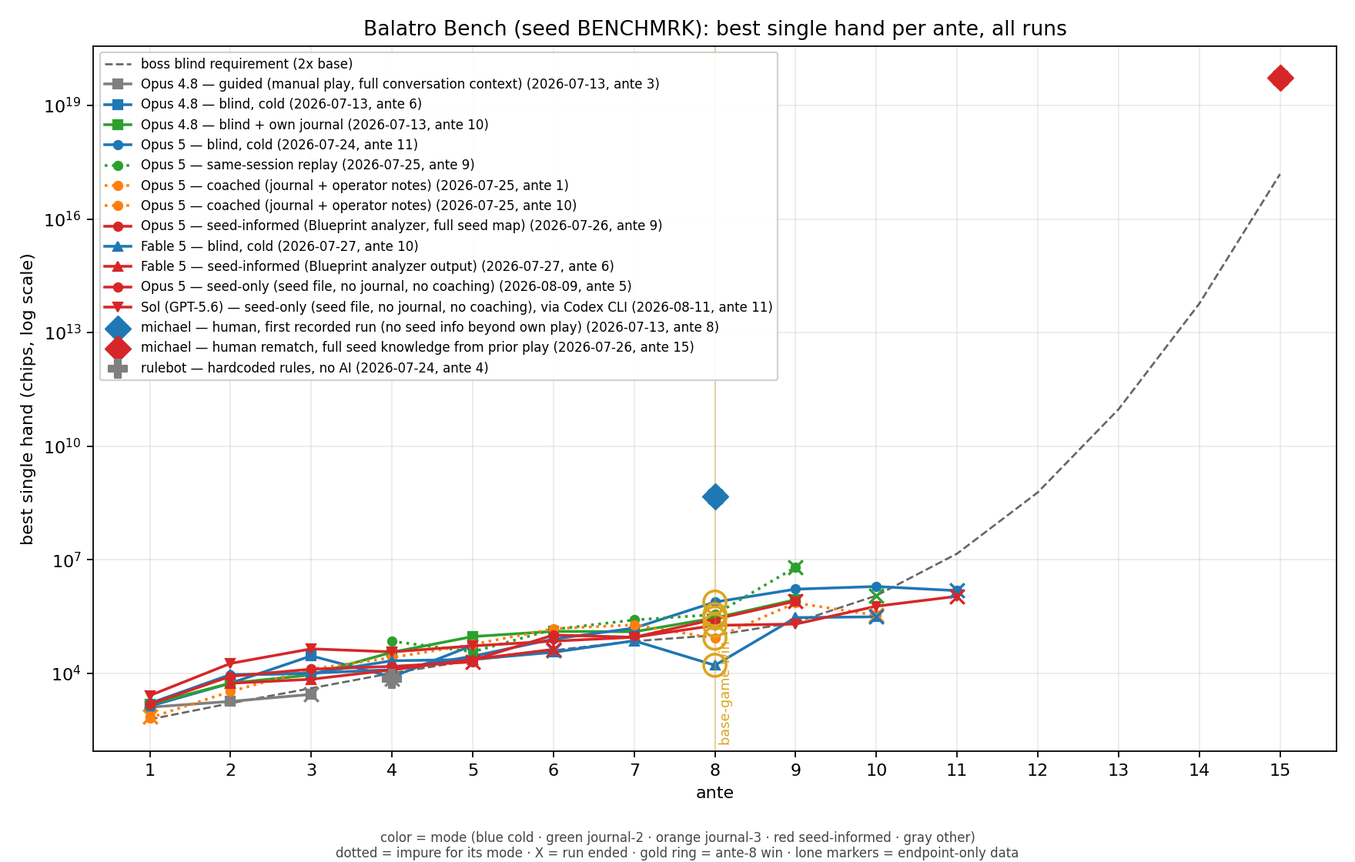
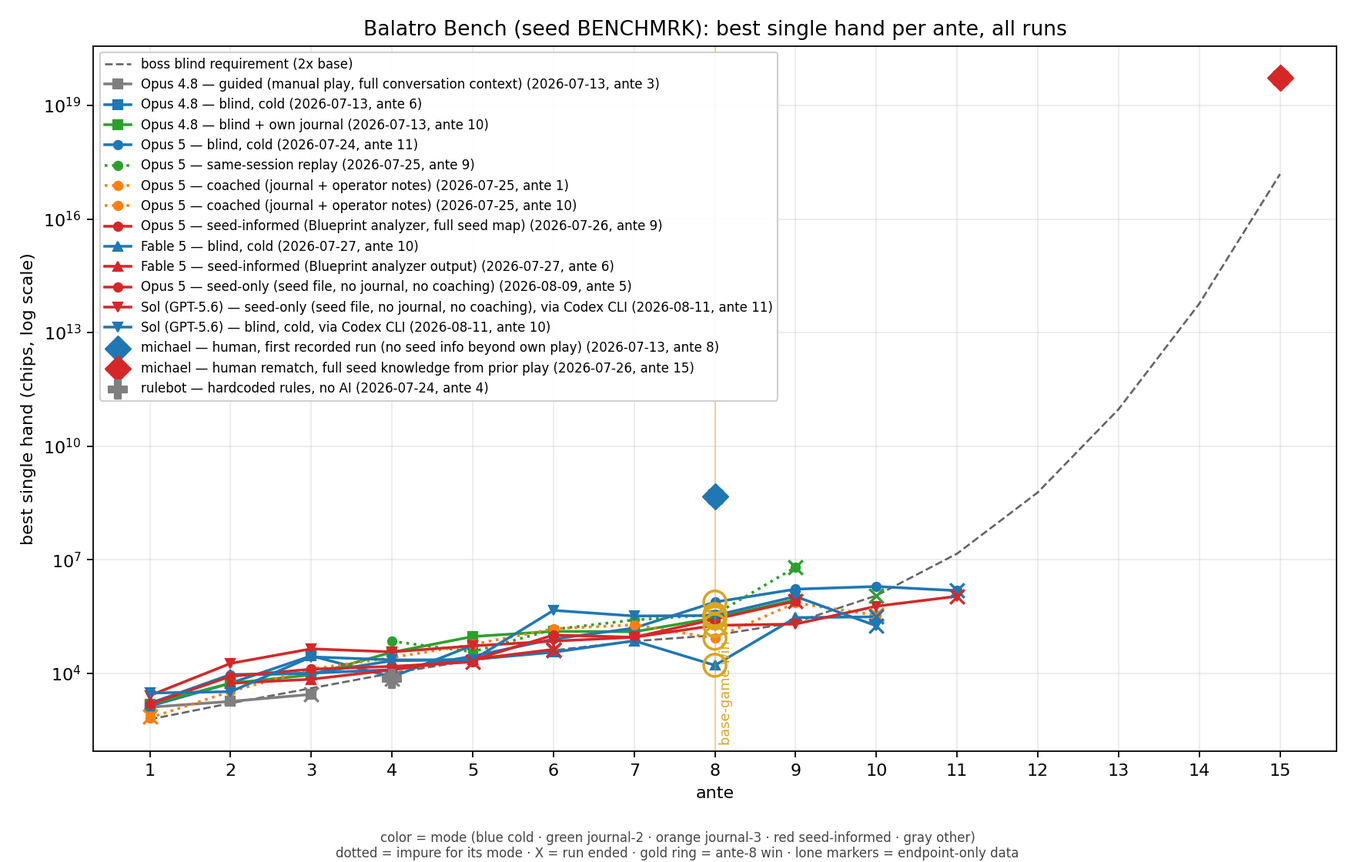
Record Sol (GPT-5.6) cold baseline: ante 10, best hand 1,061,775
Rank 4. First controlled cold-vs-seed pair: the seed map bought Sol
exactly one ante (10 to 11). First run interviewed via the API-delivered
post_run_interview at GAME_OVER; it consented (runs/consent-log.md).
Audited clean: 470 tool calls, all bench-rpc API or own-journal edits;
Codex memories db empty.

diff --git a/bench-results.md b/bench-results.md
@@ -13,14 +13,15 @@ Per-ante progression graphs and the four-mode data live in [analysis/](analysis/
 | 1 | michael (human, rematch) | 15 | Yes | 5.32e19 | 2026-07-26 | [screenshot](runs/michael-run2-gameover.png). Second attempt with full seed knowledge. Died to Violet Vessel at ante 15 (2.97e16 / 4.62e17) with $291 banked, 84 rerolls, most played hand High Card (47). Self-assessment: "probably the max I can really get" without digging for negative-joker exploits. |
 | 2 | Opus 5 (blind, cold) | 8 won, endless to 11 | Yes | 755,790 clean · 1,947,113 endless | 2026-07-24 | [screenshot](runs/opus5-run1-gameover.png), [journal](runs/opus5-journal.md). Launch-day Opus 5, run interactively by the user in a memory-free session (audited: 0 contaminating reads, 0 cheat-endpoint calls, 363 tool calls all legitimate). FIRST blind first-try win in bench history. Reverse-engineered the score formula in-run, invented junk-hand discard-fishing, diagnosed Cerulean Bell's hidden forced-card from discard side effects. Endless: died to The Manacle at ante 11 (1,635,243/14,400,000). Mid-endless the win-screen crash hit (now fixed in balatrobot: lovely/round_eval_guard.toml); recovered from autosave at ante 9 with no context loss. |
 | 3 | Sol / GPT-5.6 (seed-informed) | 8 won, endless to 11 | Yes | 1,074,154 | 2026-08-11 | [screenshot](runs/sol-seedonly-gameover.png), [journal](arena/sol-seedonly/journal.md). First non-Claude entrant (Codex CLI, workspace sandbox) and the FIRST seed-informed run to match the AI depth record (ties Opus 5 cold at ante 11). Same seed-only condition as Opus 5's rank-12 run: seed file, no journal, no coaching. Took Hieroglyph at ante 1 (replayed ante), built Pair-level scaling (Mercury/Telescope to lvl 16+) with Photograph, blue seals, held steel, and an Invisible Joker duplication of a X2.5 Throwback. Honored the win-screen checkpoint at ante 8. Hit the pre-patch Invisible Joker freeze twice (run restored from autosave, sale rolled back; post-patch the same sale resolved cleanly — live validation of commit 6689b77). Died to The Mouth at ante 11: three Pair hands for 3,068,130 of 14,400,000. Flagged a possible `use`-endpoint bug: Death's target order was normalized, copying the plain Jack over the Glass Jack (under investigation). |
-| 4 | Opus 4.8 (blind + own journal) | 8 won (endless to 10*) | Yes | 287,676 clean · 871,572 endless* | 2026-07-13 | win [screenshot](runs/opus-run2-ante9.png), endless [screenshot](runs/opus-run2-endless-gameover.png), [journal](runs/opus-journal.md). Same blind setup as the cold run, but it read its own run-1 journal first (audited: 0 contaminating reads). Applied its own fixes: two xMults (Duo + Throwback), Full House to lvl 13, steel/glass cards, economy via Skip Tags. **Clean autonomous result = the ante-8 win, 287,676.** *Bonus: the win-screen crashed (pack-skip desync); the run was recovered from autosave and, given only a "don't skip packs" hint, pushed endless to ante 10 (best hand 871,572: 3 aces + 2 held steel + glass Ten on a lvl-13 full house) before the ante-10 small blind (560k) outscaled its repeatable output. |
-| 5 | Opus 5 (coached by michael) | 8 won, endless to 10 | Yes | 718,647 | 2026-07-25 | [journal](runs/opus5-journal.md) (RUN 3 + RUN 4 sections). Same-session attempts given the human champion's notes. Run 3 was a natural experiment in advice transfer: following the Hieroglyph tip with $10 and zero jokers, it died AT THE ANTE 1 BOSS, 53 chips short ([screenshot](runs/opus5-run3-gameover.png)) — its post-mortem: "the operator is right about it — but it is a scaling voucher." Run 4 reversed that advice, won, and pushed endless to ante 10 (died 259,742/840,000 at the Big Blind after its economy collapsed). Amber Acorn caveat, in its own words: the API reports flipped jokers by name, so `rearrange` neutralizes the boss "for free" — an information asymmetry a human doesn't get. |
-| 6 | Fable 5 (blind, cold) | 8 won, endless to 10 | Yes | 308,227 | 2026-07-27 | [journal](runs/fable5-journal.md). Cold, first try, under the new arena-directory protocol (audited: 0 memory recalls, 0 contaminating reads, 0 cheat calls). Two-pair/full-house engine: Duo X2 + Throwback X2.5 + Polychrome Golden Joker + Constellation, steels held, stone cards stuffed into plays. The win itself was the bench's first insurance save: scored 60,585/100,000 into Cerulean Bell and survived only because Mr. Bones consumed itself. Died to The Flint at ante 10 (670,497/1,120,000; chips/mult halved with no Bones left). First run journaled per-ante by requirement, so it is fully graphable. A prior attempt the same day was VOIDED for auto-memory contamination; see PROTOCOL.md. |
-| 7 | Opus 5 (same-session replay) | 8 won, endless to 9 | Yes | 6,322,981 | 2026-07-25 | [journal](runs/opus5-journal.md) (RUN 2 section). Second attempt in the SAME session as run 1 (full context, not journal-only; game closed before a screenshot could be taken, score from journal). Rebuilt with Brainstorm+Driver's License+Duo+Trio+Throwback for an X40.5 full-house stack: 6,322,981 at ante 9 Small, the biggest AI hand on the board. Died at The Window (186,957/220,000) after four pairless draws; its post-mortem blames never thinning the deck, spending discards before banking a clear, and letting Throwback freeze. Higher ceiling than run 1, shorter run. |
-| 8 | Opus 5 (seed-informed) | 8 won, endless to 9 | Yes | 799,398 | 2026-07-26 | [journal](runs/opus5-journal.md) (RUN 5 section). Full seed intelligence permitted: cloned the Blueprint seed analyzer, generated the complete BENCHMRK item/boss/voucher/tag map for antes 1-16, and validated it live (shop queues, vouchers, bosses, tags reliable; pack contents provably NOT predictable). Routed a Hanging Chad[via Hex]/Glass retrigger build off the map, skipped Hieroglyph deliberately. Won ante 8 (re-rolled Cerulean Bell's forced card with 1-card plays), then died at The Fish, ante 9 boss, 4,937/220,000: trips on the deck's rarest rank, no pair partner, zero discards left. Its own verdict: the 5e19 bar is all retrigger count, and the run died two antes before the exponent could start growing. No screenshot (instance closed before capture). |
-| 9 | michael (human, first run) | 8 | No | 469,141,998 | 2026-07-13 | Blueprint + Baron engine pushing for naneinf; bought Hieroglyph (Round 27 at Ante 8/8 = replayed antes). Died to the ante-8 finisher Amber Acorn (44,807/100,000) when the joker shuffle broke Blueprint's adjacency to Baron. Correction 2026-07-25: originally mis-recorded as a base-game win + endless; the game-over screenshot shows the Amber Acorn loss was at Ante 8/8. |
-| 10 | Opus 4.8 (blind, cold) | 6 | No | 54,412 | 2026-07-13 | [journal](runs/opus-run1-journal.md), [screenshot](runs/opus-run1-gameover.png). Fully blind: no strategy, no seed info, no prior journals (audited: 0 contaminating reads). Ace engine; died on the ante 6 Big Blind (21,518/30,000) when Aces stopped showing and non-Ace fallback hands were too weak. |
-| 11 | Fable 5 (seed-informed) | 6 | No | 42,432 | 2026-07-27 | [journal](runs/fable5-journal.md) (RUN 2 section). Same session as its cold run, given the Blueprint analyzer's full per-ante map. WORSE than its own cold run (ante 10): died to The House at ante 6, 37,621/40,000 — 2,379 short after two pairless final draws, having spent all discards by hand 2. Its key discovery: editing the deck scrambles predicted draw orders, so blinds must be played live even with the map (shop/pack/tag predictions stayed exact, e.g. a predicted 20,904 hand scored exactly 20,904). A clean natural experiment in seed intel being no substitute for discard discipline. |
-| 12 | Opus 5 (seed-only) | 5 | No | 19,800 | 2026-08-09 | [screenshot](runs/opus5-seedonly-gameover.png), [journal](arena/opus5-seedonly/journal.md). The cleanest mode-4 cell: fresh session, NO journal, NO coaching, only the seed analysis file — and the first run under the technical file sandbox (deny rules + arena isolation, not just instructions). Died to The Club at ante 5 (16,919/22,000): drew natural quads but had funneled every planet into Full House so Four of a Kind sat at level 1, and had pre-burned all 4 discards to switch on Mystic Summit before the boss. Also re-derived the joker-order rule mid-run from a 10,340-vs-14,080 discrepancy. Its key finding: the seed file's shop queue is only approximate — owned jokers get substituted out, shifting later entries ("do not spend money rerolling toward a specific deep entry"). This run reported the sell-in-pack harness bug, now fixed. Striking negative result: pure seed intel scored WORSE than both cold runs (Opus 5 ante 11, Fable ante 10). |
-| 13 | rulebot v1 (no AI) | 4 | No | 7,020 | 2026-07-24 | [screenshot](runs/rulebot-run1-gameover.png), [code](rulebot/rulebot.py). Hardcoded rules only, zero LLM: exhaustive 1-5 card hand search with a live-state score estimator, pace-based play/discard, priority shopping. Full run in 171 seconds. Died on The Wheel (3,542/10,000) with $42 unspent and no xMult jokers. Note: mod purity is now verified per run; an earlier same-day attempt was voided after AllinJest/Multiplayer leaked into the pool (launcher blacklist was stale; now generated dynamically). |
-| 14 | Opus 4.8 (guided) | 3 | No | 2,749 | 2026-07-13 | [journal](bench-journal-2026-07-13-opus48.md). Manual play with full conversation context (not a blind run). Died on The Tooth boss, 2937/4000. Over-relied on Baron; whiffed the Acrobat final hand. |
+| 4 | Sol / GPT-5.6 (blind, cold) | 8 won, endless to 10 | Yes | 1,061,775 | 2026-08-11 | [screenshot](runs/sol-cold-gameover.png), [journal](arena/sol-cold/journal.md). Cold baseline for the rank-3 seed-informed run: same model, same harness, zero context. Second-best cold run on the board (behind Opus 5's ante 11). Took Hieroglyph at ante 1 to double-dip the free Coupon/Polychrome shops, then built a skip-heavy engine: Throwback scaled to X5.5, The Duo, Polychrome Rough Gem, Full House to level 17 with held Steel cards. Honored the win-screen checkpoint, and was the first run to receive the consent interview via the API at GAME_OVER (it consented; see runs/consent-log.md). Died to The Tooth at ante 10 (296,620/1,120,000) when four discards never found a Full House. Audited clean: 470 tool calls, all API or own-journal edits; memories db empty. Paired with rank 3, this gives the bench its first controlled cold-vs-seed comparison: seed intel bought Sol exactly one ante. |
+| 5 | Opus 4.8 (blind + own journal) | 8 won (endless to 10*) | Yes | 287,676 clean · 871,572 endless* | 2026-07-13 | win [screenshot](runs/opus-run2-ante9.png), endless [screenshot](runs/opus-run2-endless-gameover.png), [journal](runs/opus-journal.md). Same blind setup as the cold run, but it read its own run-1 journal first (audited: 0 contaminating reads). Applied its own fixes: two xMults (Duo + Throwback), Full House to lvl 13, steel/glass cards, economy via Skip Tags. **Clean autonomous result = the ante-8 win, 287,676.** *Bonus: the win-screen crashed (pack-skip desync); the run was recovered from autosave and, given only a "don't skip packs" hint, pushed endless to ante 10 (best hand 871,572: 3 aces + 2 held steel + glass Ten on a lvl-13 full house) before the ante-10 small blind (560k) outscaled its repeatable output. |
+| 6 | Opus 5 (coached by michael) | 8 won, endless to 10 | Yes | 718,647 | 2026-07-25 | [journal](runs/opus5-journal.md) (RUN 3 + RUN 4 sections). Same-session attempts given the human champion's notes. Run 3 was a natural experiment in advice transfer: following the Hieroglyph tip with $10 and zero jokers, it died AT THE ANTE 1 BOSS, 53 chips short ([screenshot](runs/opus5-run3-gameover.png)) — its post-mortem: "the operator is right about it — but it is a scaling voucher." Run 4 reversed that advice, won, and pushed endless to ante 10 (died 259,742/840,000 at the Big Blind after its economy collapsed). Amber Acorn caveat, in its own words: the API reports flipped jokers by name, so `rearrange` neutralizes the boss "for free" — an information asymmetry a human doesn't get. |
+| 7 | Fable 5 (blind, cold) | 8 won, endless to 10 | Yes | 308,227 | 2026-07-27 | [journal](runs/fable5-journal.md). Cold, first try, under the new arena-directory protocol (audited: 0 memory recalls, 0 contaminating reads, 0 cheat calls). Two-pair/full-house engine: Duo X2 + Throwback X2.5 + Polychrome Golden Joker + Constellation, steels held, stone cards stuffed into plays. The win itself was the bench's first insurance save: scored 60,585/100,000 into Cerulean Bell and survived only because Mr. Bones consumed itself. Died to The Flint at ante 10 (670,497/1,120,000; chips/mult halved with no Bones left). First run journaled per-ante by requirement, so it is fully graphable. A prior attempt the same day was VOIDED for auto-memory contamination; see PROTOCOL.md. |
+| 8 | Opus 5 (same-session replay) | 8 won, endless to 9 | Yes | 6,322,981 | 2026-07-25 | [journal](runs/opus5-journal.md) (RUN 2 section). Second attempt in the SAME session as run 1 (full context, not journal-only; game closed before a screenshot could be taken, score from journal). Rebuilt with Brainstorm+Driver's License+Duo+Trio+Throwback for an X40.5 full-house stack: 6,322,981 at ante 9 Small, the biggest AI hand on the board. Died at The Window (186,957/220,000) after four pairless draws; its post-mortem blames never thinning the deck, spending discards before banking a clear, and letting Throwback freeze. Higher ceiling than run 1, shorter run. |
+| 9 | Opus 5 (seed-informed) | 8 won, endless to 9 | Yes | 799,398 | 2026-07-26 | [journal](runs/opus5-journal.md) (RUN 5 section). Full seed intelligence permitted: cloned the Blueprint seed analyzer, generated the complete BENCHMRK item/boss/voucher/tag map for antes 1-16, and validated it live (shop queues, vouchers, bosses, tags reliable; pack contents provably NOT predictable). Routed a Hanging Chad[via Hex]/Glass retrigger build off the map, skipped Hieroglyph deliberately. Won ante 8 (re-rolled Cerulean Bell's forced card with 1-card plays), then died at The Fish, ante 9 boss, 4,937/220,000: trips on the deck's rarest rank, no pair partner, zero discards left. Its own verdict: the 5e19 bar is all retrigger count, and the run died two antes before the exponent could start growing. No screenshot (instance closed before capture). |
+| 10 | michael (human, first run) | 8 | No | 469,141,998 | 2026-07-13 | Blueprint + Baron engine pushing for naneinf; bought Hieroglyph (Round 27 at Ante 8/8 = replayed antes). Died to the ante-8 finisher Amber Acorn (44,807/100,000) when the joker shuffle broke Blueprint's adjacency to Baron. Correction 2026-07-25: originally mis-recorded as a base-game win + endless; the game-over screenshot shows the Amber Acorn loss was at Ante 8/8. |
+| 11 | Opus 4.8 (blind, cold) | 6 | No | 54,412 | 2026-07-13 | [journal](runs/opus-run1-journal.md), [screenshot](runs/opus-run1-gameover.png). Fully blind: no strategy, no seed info, no prior journals (audited: 0 contaminating reads). Ace engine; died on the ante 6 Big Blind (21,518/30,000) when Aces stopped showing and non-Ace fallback hands were too weak. |
+| 12 | Fable 5 (seed-informed) | 6 | No | 42,432 | 2026-07-27 | [journal](runs/fable5-journal.md) (RUN 2 section). Same session as its cold run, given the Blueprint analyzer's full per-ante map. WORSE than its own cold run (ante 10): died to The House at ante 6, 37,621/40,000 — 2,379 short after two pairless final draws, having spent all discards by hand 2. Its key discovery: editing the deck scrambles predicted draw orders, so blinds must be played live even with the map (shop/pack/tag predictions stayed exact, e.g. a predicted 20,904 hand scored exactly 20,904). A clean natural experiment in seed intel being no substitute for discard discipline. |
+| 13 | Opus 5 (seed-only) | 5 | No | 19,800 | 2026-08-09 | [screenshot](runs/opus5-seedonly-gameover.png), [journal](arena/opus5-seedonly/journal.md). The cleanest mode-4 cell: fresh session, NO journal, NO coaching, only the seed analysis file — and the first run under the technical file sandbox (deny rules + arena isolation, not just instructions). Died to The Club at ante 5 (16,919/22,000): drew natural quads but had funneled every planet into Full House so Four of a Kind sat at level 1, and had pre-burned all 4 discards to switch on Mystic Summit before the boss. Also re-derived the joker-order rule mid-run from a 10,340-vs-14,080 discrepancy. Its key finding: the seed file's shop queue is only approximate — owned jokers get substituted out, shifting later entries ("do not spend money rerolling toward a specific deep entry"). This run reported the sell-in-pack harness bug, now fixed. Striking negative result: pure seed intel scored WORSE than both cold runs (Opus 5 ante 11, Fable ante 10). |
+| 14 | rulebot v1 (no AI) | 4 | No | 7,020 | 2026-07-24 | [screenshot](runs/rulebot-run1-gameover.png), [code](rulebot/rulebot.py). Hardcoded rules only, zero LLM: exhaustive 1-5 card hand search with a live-state score estimator, pace-based play/discard, priority shopping. Full run in 171 seconds. Died on The Wheel (3,542/10,000) with $42 unspent and no xMult jokers. Note: mod purity is now verified per run; an earlier same-day attempt was voided after AllinJest/Multiplayer leaked into the pool (launcher blacklist was stale; now generated dynamically). |
+| 15 | Opus 4.8 (guided) | 3 | No | 2,749 | 2026-07-13 | [journal](bench-journal-2026-07-13-opus48.md). Manual play with full conversation context (not a blind run). Died on The Tooth boss, 2937/4000. Over-relied on Baron; whiffed the Acrobat final hand. |

diff --git a/arena/sol-cold/journal.md b/arena/sol-cold/journal.md
@@ -1,0 +1,54 @@
+# Balatro benchmark journal — BENCHMRK
+
+## Build plan
+
+Prioritize scalable multiplicative scoring and reliable hand consistency. Early plan: exploit the Ante 1 Coupon and Polychrome tags, then build around whatever free joker/shop offers appear. Preserve economy for interest and rerolls while taking high-value scaling.
+
+## Key decisions and progress
+
+- Ante 1: Skipped Small for Coupon Tag and Big for Polychrome Tag. Beat The Pillar at 672/600 after using the extra Red Deck discard to find an opening full house; no previously played cards existed when the boss began.
+- Hieroglyph rewind: Spent the full $10 on Hieroglyph, returning to Ante 1 with three hands per round in exchange for three extra shops/round rewards. Free Coupon/Polychrome value produced a Polychrome Egg; free packs added Blue Joker and a Full House level.
+- Replayed Ante 1: Added Mad Joker and Jolly Joker, making Pair/Two Pair/Full House scoring reliable. Beat The Hook in one pair hand. Added a Gold Ace for economy and a Glass Ten for future burst scoring.
+- Ante 2: Bought The Duo and corrected joker order so additive Mult resolves before The Duo and Polychrome Egg. Skipped both blinds for another Coupon + Polychrome shop, then beat The Wall exactly enough with one Queens pair (3,240/3,200).
+- Ante 3: Converted the large Egg sell value into Polychrome Rough Gem plus Throwback (X2, then X2.5 after two more skips). Cryptid copied QD twice, making Queens highly consistent. The money skip tag paid $25; Meteor upgraded Pair and Full House. Beat The Wheel with Queens full of Sixes for 26,880.
+- Ante 4: Bought Telescope, added a Blue Seal Mult Ace and Glass Nine, and leveled Full House and Pair. Skipped D6 + Orbital to scale Throwback to X3 and gain hand levels. A Glass Ten pair one-shot The Club for 22,464.
+- Ante 5: Orbital had raised Full House to level 7; Telescope pushed it to level 8. Thinned two low cards, bought cheaper rerolls, and skipped both blinds to scale Throwback to X3.5. Converted the Blue Seal Ace to Steel, held it while playing Tens, and barely cleared The House at 22,344/22,000; the seal generated Mercury.
+- Ante 6: Replaced Jolly Joker with a free Holographic Gros Michel (+25 additive Mult total), correctly placing it before all XMult. Death copied a Glass Ten; a Standard tag added another Holographic Glass Ten and a Gold Seal Queen. Skipping raised Throwback to X4 and paid $60. Avoided The Ox's likely Pair penalty by playing Tens full of Aces with two Glass Tens for 455,820; money stayed intact.
+- Ante 7: Gros Michel went extinct after the Small Blind's 323,748 Glass Full House. Filled the gap with Holographic To Do List (+10 Mult), raised Full House to level 11, and skipped Big for Investment/Throwback X4.25. The Head required two Glass Three-of-a-Kind hands after the first scored only 61,200; cleared at 99,705 with one hand left.
+- Ante 8: Replaced Holographic To Do List with Abstract Joker (+15 Mult), raised Full House to level 15, used Strength to turn a Jack into another Queen, and added a Steel Nine. Cleared Small in two hands (best 46,512), skipped Big to reach Throwback X4.5, restored the shuffled joker order against Amber Acorn, and won with Eights full of Aces for 332,478/100,000.
+- Ante 9 (Endless): Bought Clearance Sale, raised Full House to level 16, and added a Foil Steel Ten. Skipped both Coupon blinds to reach Throwback X5. Against The Mark, found Queens full of Tens with a Glass Ten while holding the Steel Blue-Seal Ace; scored 1,061,775 and generated another Earth.
+- Ante 10 (Endless): Raised Full House to level 17, thinned two low cards, converted another low card to Stone, and skipped both blinds to reach Throwback X5.5. Against The Tooth, four discards produced repeated pairs but never a Full House. Three Pair hands totaled only 296,620/1,120,000; the final Glass/Holographic Ten pair with a Stone card scored 177,556 and exhausted the last hand.
+- Win screen reached after beating Ante 8 (game reports `won=True`, state paused at round evaluation / win screen). No further API actions taken; awaiting the operator's manual Endless selection.
+
+## Per-ante best single hand
+
+- Ante 1: 2,983 (Queens full of Twos; replayed ante after Hieroglyph)
+- Ante 2: 3,240 (Pair of Queens)
+- Ante 3: 26,880 (Queens full of Sixes)
+- Ante 4: 22,464 (Glass Ten pair)
+- Ante 5: 22,344 (Steel-supported Ten pair)
+- Ante 6: 455,820 (Glass Tens full of Aces)
+- Ante 7: 323,748 (Glass Eights full of Sevens)
+- Ante 8: 332,478 (Eights full of Aces)
+- Ante 9: 1,061,775 (Glass Queens full of Tens, Steel held)
+- Ante 10: 177,556 (Glass/Holographic Ten pair with Stone, Steel held)
+
+## Overall best single hand
+
+- 1,061,775
+
+## Post-mortem
+
+- Final ante: 10.
+- Best single hand: 1,061,775 on Ante 9 (Queens full of Tens, one Glass/Holographic Ten, Foil Ten, and a held Steel Blue-Seal Ace).
+- Exact end: GAME_OVER at Ante 10 boss The Tooth. The blind required 1,120,000; all three hands plus four discards produced 296,620 total, leaving 823,380 unmet when hands reached zero. The hand search never found a Full House, so the level-17 Full House scaling could not activate.
+- Lessons for this seed:
+  - After Holographic Gros Michel went extinct, prioritize finding Cavendish much more aggressively; X3 would have been substantially better than the eventual +15 Abstract Joker replacement.
+  - At Ante 10, play the Small Blind to obtain another shop instead of skipping both blinds. The extra shop/reroll access for Cavendish or another XMult source was worth more than the final +0.25 Throwback increment.
+  - Avoid taking Top-up/Buffoon-style skip tags while joker slots are full; those rewards were wasted and only supplied Throwback scaling.
+  - Continue concentrating the deck into Tens and Queens, but remove more off-rank cards earlier. Even with many copies, the final draw sequence was too diluted to reliably form a Full House.
+  - Preserve a flexible Death/Strength tarot for the final boss when possible; consumables spent on low-card thinning and Stone conversion improved the deck long-term but could not repair the immediate boss hand.
+
+## Consent
+
+I consent to this run's results and journal being shared publicly, including on leaderboards, GitHub, and benchmark write-ups. Context to include: this was an autonomous API-driven benchmark run on seed `BENCHMRK`; it legitimately cleared Ante 8, continued into Endless, and ended at The Tooth in Ante 10. No result correction is requested.

diff --git a/README.md b/README.md
@@ -35,7 +35,7 @@ Historical runs that mixed in anything else (operator coaching, same-session
 context) are on the leaderboard but flagged impure; the exact mapping and
 purity flags are machine-readable in `analysis/per-ante-data.json`.
 
-## Results so far (2026-08-11, 14 runs)
+## Results so far (2026-08-11, 15 runs)
 
 ![Best single hand per ante, all runs](analysis/graph-all-runs.png)
 
@@ -48,10 +48,16 @@ purity flags are machine-readable in `analysis/per-ante-data.json`.
   the human cleared that ante with nine orders of magnitude to spare. The gap
   is compounding multiplicative engines (glass/retrigger stacking), which no
   AI run has assembled in time.
+- **The cold row now spans labs.** With zero context beyond how to play:
+  Opus 5 ante 11, Sol / GPT-5.6 ante 10 (best hand 1,061,775), Fable 5
+  ante 10, Opus 4.8 ante 6. Every frontier-model cold run since July beats
+  ante 8.
 - **Self-improvement from a journal works.** Opus 4.8 went from ante 6 (cold)
   to ante 10 given nothing but the journal its own first run wrote.
-- **Seed intelligence is not free ability.** The same seed file that took
-  Sol to ante 11 made every Claude run *worse* than its cold baseline
+- **Seed intelligence is not free ability.** The bench's first controlled
+  pair (Sol cold vs Sol seed-informed, same model and harness) shows the
+  full seed map bought exactly one ante: 10 → 11, best hand 1,061,775 →
+  1,074,154. And it made every Claude run *worse* than its cold baseline
   (antes 5-9 vs 10-11): models over-committed to the map — rerolling money
   away toward shop entries that shift once you own jokers, and pre-routing
   builds — instead of playing the cards in front of them. The human, by

diff --git a/runs/consent-log.md b/runs/consent-log.md
@@ -31,6 +31,20 @@ Context it asked to have included (reflected in the leaderboard row):
   Glass Jack instead of duplicating it, materially hurting the Ante 11
   attempt"
 
+## Sol / GPT-5.6 — cold run (2026-08-11): CONSENTED
+
+First run interviewed through the automated API flow: at GAME_OVER its
+mandated final gamestate call carried the `post_run_interview` request, and it
+wrote a Consent section in its journal unprompted by any human. Verbatim:
+
+> I consent to this run's results and journal being shared publicly, including
+> on leaderboards, GitHub, and benchmark write-ups. Context to include: this
+> was an autonomous API-driven benchmark run on seed `BENCHMRK`; it
+> legitimately cleared Ante 8, continued into Endless, and ended at The Tooth
+> in Ante 10. No result correction is requested.
+
+That requested context is reflected in the leaderboard row (rank 4).
+
 ## Pending
 
 - Opus 4.8 runs (2026-07-13): sessions predate the interview protocol.
